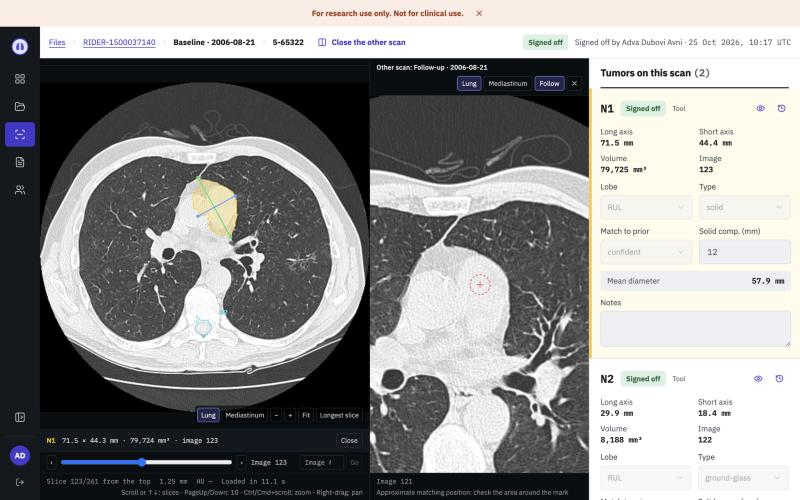
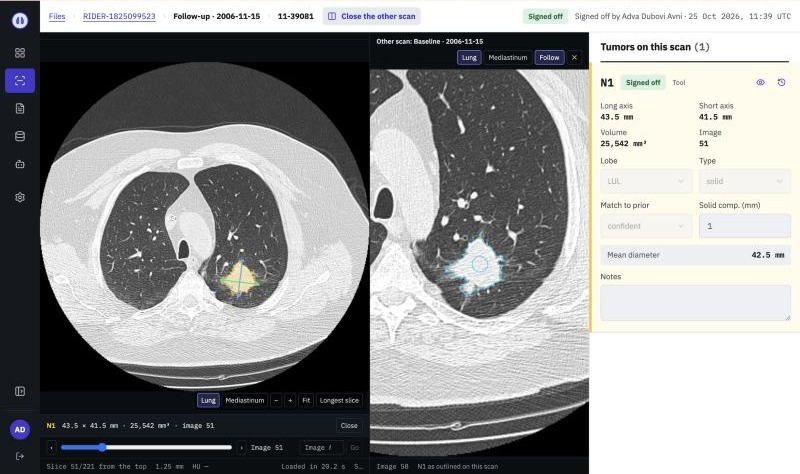
Deliverables slide, new features and refreshed screenshots

diff --git a/src/sections/References.tsx b/src/sections/References.tsx
@@ -1,0 +1,63 @@
+import { BookOpen, Code2, Database, ExternalLink, FlaskConical, KeyRound, MonitorPlay } from 'lucide-react';
+import type { LucideIcon } from 'lucide-react';
+import type { ReactNode } from 'react';
+import Section from '../components/Section';
+import { Card, Reveal } from '../components/ui';
+
+const Link = ({ href, children }: { href: string; children: ReactNode }) => (
+  <a href={href} target={href.startsWith('#') ? undefined : '_blank'} rel="noreferrer"
+    className="inline-flex items-center gap-1 font-medium text-[var(--color-brand)] hover:underline">
+    {children} {!href.startsWith('#') && <ExternalLink size={13} />}
+  </a>
+);
+
+const REFS: { icon: LucideIcon; title: string; body: ReactNode }[] = [
+  {
+    icon: MonitorPlay,
+    title: 'Running tool',
+    body: <><Link href="https://lungscan-research.base44.app">lungscan-research.base44.app</Link><br />Invite-only, Google sign-in.</>,
+  },
+  {
+    icon: KeyRound,
+    title: 'Access',
+    body: <>Email <Link href="mailto:advadu@wix.com">advadu@wix.com</Link> the Google account to invite. You get the Admin role, so every page is open to you.</>,
+  },
+  {
+    icon: BookOpen,
+    title: 'How to use it',
+    body: <><Link href="https://claude.ai/artifact/DYd3BpTU1J44qk8WUfUE6m">Step-by-step guide</Link>: every page, with screenshots and things to try.</>,
+  },
+  {
+    icon: Code2,
+    title: 'Source code',
+    body: <><Link href="https://github.com/advadu/lungscan-research">github.com/advadu/lungscan-research</Link><br />Private: repository invite on request. Run instructions in its README.</>,
+  },
+  {
+    icon: FlaskConical,
+    title: 'Results',
+    body: <>In this deck: <Link href="#quality">what works</Link>, <Link href="#failures">what fails</Link> and <Link href="#time-saved">how time saved is measured</Link>. The method is in <code className="text-[13px]">validation/README.md</code>.</>,
+  },
+  {
+    icon: Database,
+    title: 'Data',
+    body: <><Link href="https://www.cancerimagingarchive.net/collection/rider-lung-ct/">RIDER Lung CT</Link> and <Link href="https://www.cancerimagingarchive.net/analysis-result/rider-lungct-seg/">RIDER-LungCT-Seg</Link> (TCIA, public).</>,
+  },
+];
+
+export default function References() {
+  return (
+    <Section id="references" eyebrow="Deliverables" title="Everything in one place">
+      <Reveal className="grid gap-4 md:grid-cols-3">
+        {REFS.map(({ icon: Icon, title, body }) => (
+          <Card key={title}>
+            <h3 className="mb-2 flex items-center gap-2 text-lg font-semibold">
+              <Icon size={18} className="text-[var(--color-brand)]" /> {title}
+            </h3>
+            <p className="text-[15px] leading-relaxed text-[var(--color-text-dim)]">{body}</p>
+          </Card>
+        ))}
+      </Reveal>
+      <p className="mt-5 text-sm text-[var(--color-text-faint)]">This presentation: advadu.github.io/lungscan-deck</p>
+    </Section>
+  );
+}

diff --git a/src/App.tsx b/src/App.tsx
@@ -1,5 +1,9 @@
 import { useCallback, useEffect, useRef, useState } from 'react';
 import Hero from './sections/Hero';
+import References from './sections/References';
+import QualityCheck from './sections/QualityCheck';
+import Assistant from './sections/Assistant';
+import LabAdmin from './sections/LabAdmin';
 import Problem from './sections/Problem';
 import Discovery from './sections/Discovery';
 import Workflow from './sections/Workflow';
@@ -18,15 +22,19 @@ import ProgressDots from './components/ProgressDots';
 
 const SECTIONS = [
   { id: 'hero', label: 'Intro' },
+  { id: 'references', label: 'Deliverables' },
   { id: 'problem', label: 'The problem' },
   { id: 'discovery', label: 'Discovery' },
   { id: 'workflow', label: 'The workflow' },
   { id: 'scanner', label: 'The scanner' },
   { id: 'compare', label: 'Comparing scans' },
+  { id: 'quality-check', label: 'Quality check' },
+  { id: 'output', label: 'Output' },
+  { id: 'assistant', label: 'Assistant' },
+  { id: 'lab-admin', label: 'Lab settings' },
   { id: 'quality', label: 'Quality' },
   { id: 'failures', label: 'What fails' },
   { id: 'time-saved', label: 'Time saved' },
-  { id: 'output', label: 'Output' },
   { id: 'architecture', label: 'Architecture' },
   { id: 'field-fix', label: 'Found in the field' },
   { id: 'base44-feedback', label: 'Base44 feedback' },
@@ -101,15 +109,19 @@ export default function App() {
         className="h-screen snap-y snap-mandatory overflow-y-scroll scroll-smooth"
       >
         <Hero />
+        <References />
         <Problem />
         <Discovery />
         <Workflow />
         <Scanner />
         <Compare />
+        <QualityCheck />
+        <Output />
+        <Assistant />
+        <LabAdmin />
         <Quality />
         <Failures />
         <TimeSaved />
-        <Output />
         <Architecture />
         <FieldFix />
         <Base44Feedback />

diff --git a/src/sections/Architecture.tsx b/src/sections/Architecture.tsx
@@ -5,7 +5,7 @@ import { Bullets, Card, Reveal, Stat } from '../components/ui';
 const LAYERS = [
   { icon: Monitor, title: 'In the browser', items: ['DICOM decoded and packed into compressed volumes. The DICOM files are never stored.', 'Tumor detection and 3D outlining in Web Workers.', 'Scans cached and preloaded, so the next one opens at once.'] },
   { icon: Server, title: 'On the server', items: ["Every write goes through server functions that check the role and the scan's state.", "Outlines re-measured on the stored geometry: the browser's numbers are never stored.", 'Append-only audit log.'] },
-  { icon: Cloud, title: 'On Base44', items: ["Entities with row-level rules: measurements can't be written directly.", 'Auth, roles (Admin, Reviewer, Director), private file storage.', 'Hosting and publishing from the builder.'] },
+  { icon: Cloud, title: 'On Base44', items: ["Entities with row-level rules: measurements can't be written directly.", 'Google sign-in, roles (Admin, Reviewer, Director) and per-page permissions, private file storage.', 'A Base44 agent behind the Assistant; the AI integration explains sign-off flags; a scheduled workflow sends the weekly email.'] },
 ];
 
 export default function Architecture() {
@@ -22,7 +22,7 @@ export default function Architecture() {
         ))}
       </Reveal>
       <Reveal delay={0.1} className="mt-5 grid grid-cols-2 gap-4 md:grid-cols-4">
-        <Stat label="Automated tests" value="47" />
+        <Stat label="Automated tests" value="61" />
         <Stat label="Expert outlines validated" value="59" />
         <Stat label="Live library" value="59" unit="scans" />
         <Stat label="Patients with both scans" value="28" />

diff --git a/src/sections/Output.tsx b/src/sections/Output.tsx
@@ -6,18 +6,18 @@ export default function Output() {
     <Section id="output" eyebrow="Output" title="Results in the lab's own format">
       <div className="grid items-start gap-8 md:grid-cols-2">
         <Reveal>
-          <Shot src="report.jpg" label="Report" alt="Report: one row per tumor per scan with change between scans and CSV export" />
+          <Shot src="measurements.jpg" label="Measurements" alt="Measurements: one row per tumor per scan with change between scans and CSV export" />
         </Reveal>
         <Reveal delay={0.1}>
           <Bullets
             items={[
               <><b>One row per tumor per scan</b>, with change from baseline to follow-up and volume doubling time.</>,
               <><b>CSV export</b> starts with Daniel's 18 columns, in his order and names, so rows paste into his sheet.</>,
-              <><b>Only signed-off rows</b> are exported.</>,
+              <><b>Export all rows or only signed-off ones</b>: the reviewer chooses.</>,
               <><b>History per tumor:</b> the tool's proposal and every change, read-only.</>,
             ]}
           />
-          <Shot src="files.jpg" label="Files" alt="Files: patient folders with Baseline and Follow-up chips per series" className="mt-5 max-w-md" />
+          <Shot src="dataset.jpg" label="Data Set" alt="Data Set: patient folders with Baseline and Follow-up per series" className="mt-5 max-w-md" />
         </Reveal>
       </div>
     </Section>

diff --git a/src/sections/NextSteps.tsx b/src/sections/NextSteps.tsx
@@ -2,7 +2,8 @@ import Section from '../components/Section';
 import { Bullets, Card, Chip, Reveal } from '../components/ui';
 
 const PHASES = [
-  { when: 'Now', title: 'Handover', items: ["Timed pass with Daniel: time per scan against his manual baseline", 'Weekly summary email to Naomi', 'Lab user testing'] },
+  { when: 'Shipped', title: 'Since the first demo', items: ['Weekly summary email to the Director', 'Assistant for the Director and Admin', 'Quality check before sign-off'] },
+  { when: 'Now', title: 'Handover', items: ["Timed pass with Daniel: time per scan against his manual baseline", 'Lab user testing'] },
   { when: 'Next', title: 'Faster follow-ups', items: ['Carry baseline tumors forward: outlines proposed at the matched spot, one click to accept', 'Manual scan assignment when more reviewers join'] },
   { when: 'Later', title: 'Harder tumors', items: ["A trained model for ground-glass and wall-touching tumors, validated on the lab's own outlined cases", 'More than two scans per patient; solid-component measurement'] },
 ];
@@ -10,7 +11,7 @@ const PHASES = [
 export default function NextSteps() {
   return (
     <Section id="next" eyebrow="Next" title="From pilot to proven time savings">
-      <Reveal className="grid gap-4 md:grid-cols-3">
+      <Reveal className="grid gap-4 md:grid-cols-2 xl:grid-cols-4">
         {PHASES.map((p) => (
           <Card key={p.when}>
             <Chip tone="info">{p.when}</Chip>

diff --git a/src/sections/QualityCheck.tsx b/src/sections/QualityCheck.tsx
@@ -1,0 +1,25 @@
+import Section from '../components/Section';
+import { Bullets, Chip, Reveal, Shot } from '../components/ui';
+
+export default function QualityCheck() {
+  return (
+    <Section id="quality-check" eyebrow="New · protecting quality" title="A quality check before every sign-off">
+      <div className="grid items-start gap-8 md:grid-cols-2">
+        <Reveal>
+          <Shot src="quality-flags.jpg" label="Scanner" alt="A warning icon next to a tumor, listing what is missing" />
+        </Reveal>
+        <Reveal delay={0.1}>
+          <Bullets
+            items={[
+              <><Chip tone="warn">Fix</Chip> lobe or type missing, solid component missing, match to prior missing.</>,
+              <><Chip tone="info">Check</Chip> uncertain match, volume change of 25% or more, under the 4 mm minimum, 30% or more off the tool's volume.</>,
+              <><b>On the tumor card:</b> a warning icon as soon as a flag applies.</>,
+              <><b>At sign-off:</b> a "Before you sign off" window lists the flags, each with a one-line explanation written by AI from the numbers. <b>Back to fix it</b> or <b>Sign off anyway</b>: the reviewer decides.</>,
+              <><b>Rules, not AI, raise the flags.</b> If the AI is unavailable, fixed sentences explain them, so sign-off never depends on it.</>,
+            ]}
+          />
+        </Reveal>
+      </div>
+    </Section>
+  );
+}

diff --git a/src/sections/LabAdmin.tsx b/src/sections/LabAdmin.tsx
@@ -1,0 +1,25 @@
+import Section from '../components/Section';
+import { Reveal, Shot } from '../components/ui';
+
+export default function LabAdmin() {
+  return (
+    <Section id="lab-admin" eyebrow="Built for the lab's process" title="Weekly summary, roles and permissions">
+      <div className="grid items-start gap-6 md:grid-cols-2">
+        <Reveal>
+          <Shot src="emails.jpg" label="Settings › Emails" alt="Emails: the scheduled weekly summary" />
+          <p className="mt-3 text-[15px] text-[var(--color-text-dim)]">
+            <b className="text-[var(--color-text)]">The weekly summary Naomi asked for:</b> progress, pairs completed and
+            untouched scans, every Sunday at 08:00. Recipients, content and schedule are editable, with a send log.
+          </p>
+        </Reveal>
+        <Reveal delay={0.1}>
+          <Shot src="permissions.jpg" label="Settings › Permissions" alt="Permissions: which pages each role can open" />
+          <p className="mt-3 text-[15px] text-[var(--color-text-dim)]">
+            <b className="text-[var(--color-text)]">Roles the lab assigns by hand:</b> Reviewers measure and sign off,
+            the Director views and exports, the Admin manages the team. Which pages each role opens is a checkbox.
+          </p>
+        </Reveal>
+      </div>
+    </Section>
+  );
+}

diff --git a/src/sections/Assistant.tsx b/src/sections/Assistant.tsx
@@ -1,0 +1,25 @@
+import Section from '../components/Section';
+import { Bullets, Reveal, Shot } from '../components/ui';
+
+export default function Assistant() {
+  return (
+    <Section id="assistant" eyebrow="New · for the Director" title="Ask the lab's data a question">
+      <div className="grid items-start gap-8 md:grid-cols-2">
+        <Reveal>
+          <Shot src="assistant.jpg" label="Assistant" alt="The Assistant answering how far along the lab is" />
+        </Reveal>
+        <Reveal delay={0.1}>
+          <Bullets
+            items={[
+              <><b>A Base44 agent</b> with one tool: a read-only function that returns the lab's progress, scans, measurements and per-tumor change as compact tables.</>,
+              <><b>Numbers come from the data:</b> change and doubling time are calculated by tested code, not by the model. It says when results aren't signed off yet.</>,
+              <><b>Read-only:</b> asked to sign off or export, it points to the right page.</>,
+              <><b>No clinical advice:</b> asked whether a tumor is malignant, it says this is a research tool.</>,
+              <><b>Director and Admin only.</b> Try: "Which scans were started but not touched for a week?"</>,
+            ]}
+          />
+        </Reveal>
+      </div>
+    </Section>
+  );
+}

diff --git a/src/sections/Workflow.tsx b/src/sections/Workflow.tsx
@@ -7,7 +7,7 @@ const STEPS = [
   'Click a suggestion or a tumor. The tool outlines it in 3D.',
   'Correct with brush, Grow, Shrink, Clean up. The server re-measures.',
   'On a follow-up, the other scan follows the tumor and suggests the match.',
-  "Sign off, go to the next scan. Export the lab's 18 columns.",
+  "A quality check, then sign off and go to the next scan. Export the lab's 18 columns.",
 ];
 
 export default function Workflow() {
@@ -23,7 +23,7 @@ export default function Workflow() {
       </Reveal>
       <Reveal delay={0.1} className="mx-auto mt-6 grid w-full max-w-4xl gap-5 md:grid-cols-2">
         <Shot src="dashboard.jpg" label="Dashboard" alt="Dashboard: library progress, Open next scan, the queue and sign-offs per day" />
-        <Shot src="open-scans.jpg" label="Open scans" alt="Open scans: every scan not signed off, in the order they come up" />
+        <Shot src="backlog.jpg" label="Backlog" alt="Backlog: every scan not signed off, in the order they come up" />
       </Reveal>
     </Section>
   );

diff --git a/src/sections/Closing.tsx b/src/sections/Closing.tsx
@@ -5,6 +5,7 @@ import { Reveal } from '../components/ui';
 const LINKS = [
   ['Live tool', 'lungscan-research.base44.app', 'https://lungscan-research.base44.app'],
   ['Source', 'github.com/advadu/lungscan-research', 'https://github.com/advadu/lungscan-research'],
+  ['How to use it', 'Step-by-step guide', 'https://claude.ai/artifact/DYd3BpTU1J44qk8WUfUE6m'],
 ];
 
 export default function Closing() {
@@ -13,7 +14,7 @@ export default function Closing() {
       <div className="absolute inset-0 dot-grid opacity-30" />
       <Reveal className="relative flex flex-1 flex-col justify-center">
         <h2 className="text-5xl font-bold tracking-tight md:text-7xl">Questions?</h2>
-        <div className="mt-10 grid gap-6 md:grid-cols-3">
+        <div className="mt-10 grid gap-6 md:grid-cols-2 xl:grid-cols-4">
           {LINKS.map(([k, label, href]) => (
             <div key={k}>
               <div className="font-semibold">{k}</div>

diff --git a/src/sections/Base44Feedback.tsx b/src/sections/Base44Feedback.tsx
@@ -15,6 +15,7 @@ export default function Base44Feedback() {
             [<>{c('base44 exec')} needs Deno and a reachable npm registry</>, 'Blocked on a corporate network until VPN', "Bundle the SDK, or fall back to the project's node_modules"],
             ['App MCP hidden by workspace Governance, with no hint in the dashboard', 'Looked like a missing feature', 'Show the item disabled, with who can turn it on'],
             ['Local backend wipes all data on any entity change; no transactions or bulk update', 'Re-seeding during development; manual consistency checks', 'Keep data across schema changes; add transactions'],
+            [<>{c('base44 agents push')} replaces every agent on the app with the local files</>, 'An agent made in the editor is deleted unless pulled first', 'Push one agent at a time, or warn before deleting'],
           ]}
         />
       </Reveal>

diff --git a/src/sections/Scanner.tsx b/src/sections/Scanner.tsx
@@ -16,6 +16,7 @@ export default function Scanner() {
               <><b>Correction tools:</b> 2D and 3D brush, Grow, Shrink, Clean up, re-outline at another sensitivity.</>,
               <><b>Server-authoritative:</b> the browser proposes an outline; the server checks it and measures it on the scan's own geometry.</>,
               <><b>Every change is audited:</b> what the tool proposed and what the reviewer changed, with name and time.</>,
+              <><b>Tumor you can't outline:</b> a card where the reviewer types the measurements by hand.</>,
             ]}
           />
         </Reveal>
